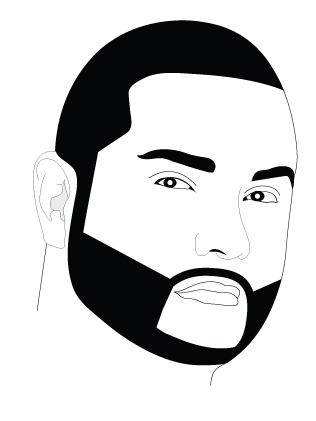
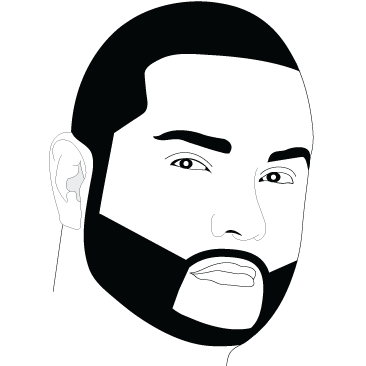
massive changes to start page, layout is better

diff --git a/lab1.css b/lab1.css
@@ -9,18 +9,12 @@ body {
     
 }
 
-.site-container {
-    margin: 0 auto; 
-    border: 1px solid red;
-    width: 90%;
-    max-width: 1920px;
-}
 
 header {
     width: 100%;
     padding: 20px; 
     height: 80px;
-    background-color: #1d1f1d;
+    background-color: #0B192C; 
     display: flex;
     flex-direction: row;
     justify-content: space-between;
@@ -29,11 +23,16 @@ header {
 
 }
 
+.hi {
+  color: orangered;
+  font-size: 4.6rem;
+}
+
 #lab1 {
     display: flex;
     align-items: center;
     font-size: 1.1rem;
-    margin-left: 5px; 
+    margin-left: 10px; 
 }
 
 
@@ -70,38 +69,81 @@ nav ul li a {
     text-decoration: none;
 }
 
-.content-grid{
-    width: 100%;
-    display: grid;
-    grid-template-columns: repeat(4, 1fr);
-    grid-template-rows: repeat(3, auto);
-    border: 5px solid;
+
+.site-container {
+  margin: 0 auto; 
+  /* border: 1px solid red; */
+  /* width: 90%; */
+  max-width: 1920px;
 }
 
 
-.main-text {
-  font-size: 1.2rem;
+
+
+.content-grid-intro{
+    width: 100%;
+    display: grid;
+    /* grid-template-columns: repeat(2, 1fr); */
+    /* grid-template-rows: repeat(3, auto); */
+    /* grid-template-columns: 2fr 1fr; */
+
+    grid-template-columns: 1fr 1fr; /* Ändra till lika stora kolumner */
+    justify-items: center; /* Centrera horisontellt */
+    align-items: center;    /* Centrera vertikalt */
+    height: 100vh;          /* Fyll hela höjden av viewporten för centering */
+  
+
+    /* border: 5px solid; */
+}
+
+/* .content-grid{
+  width: 100%;
+  display: grid;
+  grid-template-columns: repeat(4, 1fr);
+  grid-template-rows: repeat(3, auto);
+  border: 5px solid;
+} */
+
+
+.main-text-intro {
+  font-size: 2rem;
+  text-align: center;
+  /* margin: 150px 0px 10px 130px; */
+  max-width: 800px;
+  grid-column: 1;
+  font-weight: 300;
+  /* border: 2px solid green;  */
+}
+
+
+/* .main-text {
+  font-size: 1.6rem;
   text-align: left;
-  margin: 140px auto 200px auto;
+  margin: 150px 0px 0px 100px;
   margin-bottom: 300px;
-  max-width: 580px;
+  max-width: 560px;
   grid-column: 1 / 4;
   font-weight: 300;
   border: 2px solid green; 
-}
+} */
 
 
 .portrait {
-  margin-top: 30px;
-  grid-column: 4 / 5;
-  grid-row: 1 / 1;
+
+  grid-column: 2;
+  /* grid-row: 1 / 1; */
+  /* padding-right: 300px;
+  margin-top: 80px;  */
 
 }
-
 
 .portrait img {
   width: 100%;
   height: auto;
+  max-width: 500px;
+
+
+
 }
 
 
@@ -186,6 +228,14 @@ nav ul li a {
 .site-container {
   width: 100%;
 }
+
+
+
+/* .portrait img {
+  width: 100%;
+  height: auto;
+  margin-top: 100px; 
+} */
 
 
   }

diff --git a/lab1.html b/lab1.html
@@ -40,12 +40,12 @@
 
         <main>
             <!--    Start of content-grid-->
-            <div class="content-grid">
+            <div class="content-grid-intro">
                 
                 <!-- Start of main text content   -->
-                <article class="main-text">
-                    <h2>Hi, I'm Bahman!</h2>
-                    <p>I like movies, video games, graphic design & photography</p>
+                <article class="main-text-intro">
+                    <h2 class="hi">Hi, I'm Bahman</h2>
+                    <p>I like movies, video games, graphic design & photography.</p>
 
                 </article>
 
@@ -53,10 +53,10 @@
 
                   <!-- Start of the illustration portrait  -->
                    <section class="portrait">
-                    <img src="images/illu_portrait.png" alt="illustration of me in black and white">
+                    <img src="images/illu_portrait-stor.png" alt="illustration of me in black and white">
                    </section>
 
-                  <!-- End of the illustration portrait  -->
+                  <!-- End of the illustration portrait section  -->
 
             </div>
             <!--    End of content grid-->
